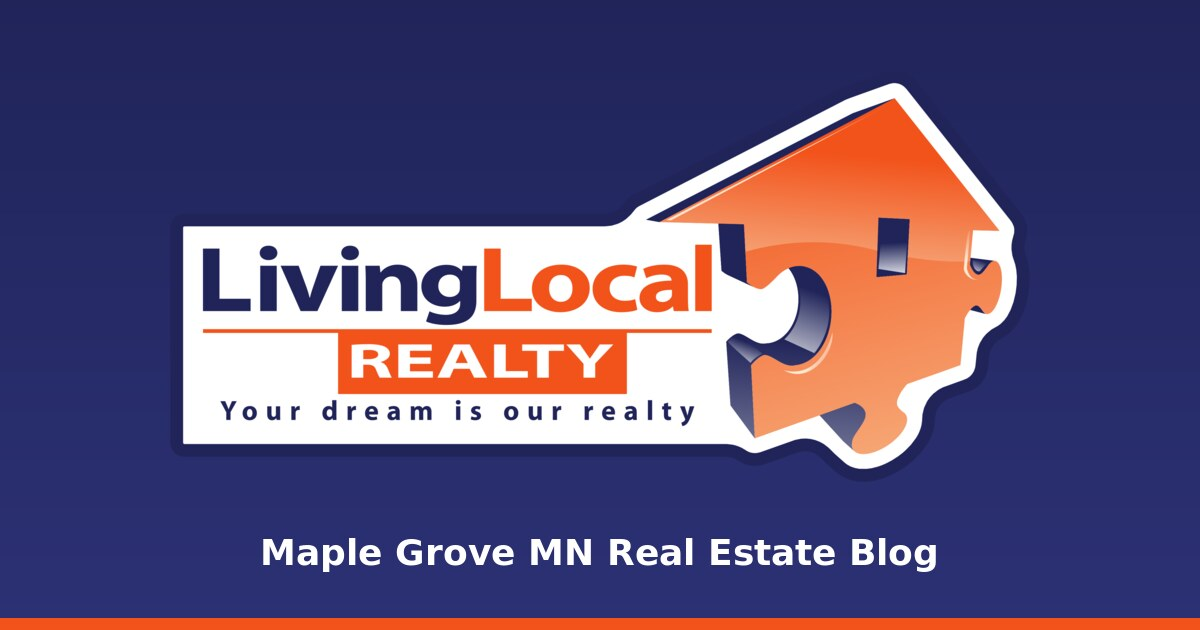
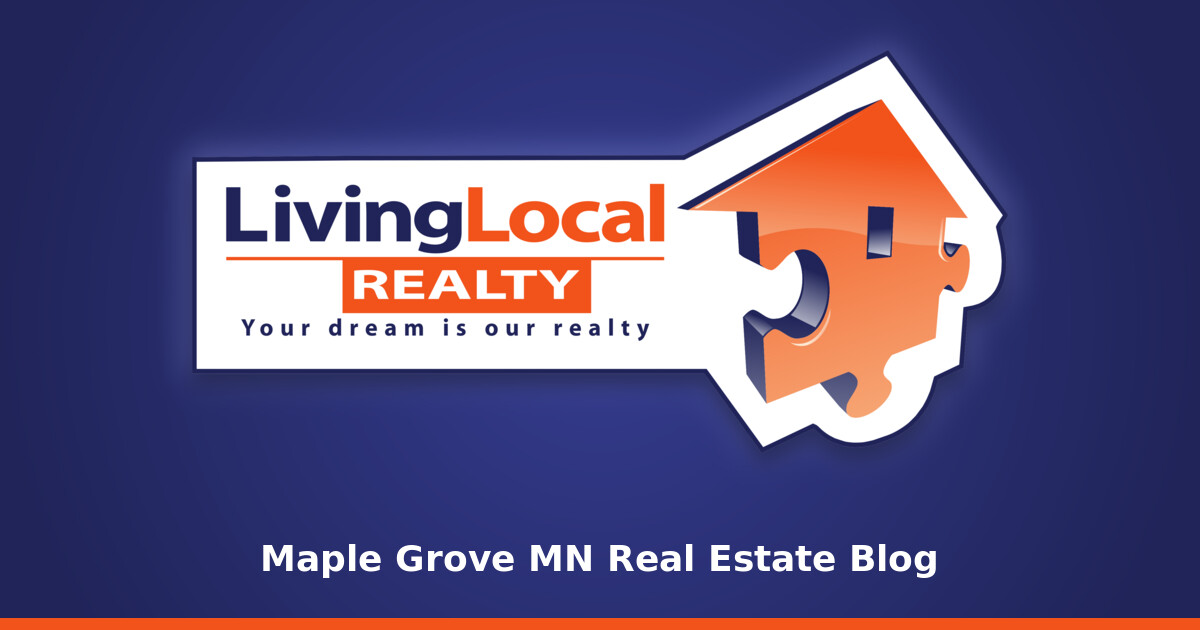
Footer + OG image: approved key badge v4 (traced from Thomas's business card)

diff --git a/404.html b/404.html
@@ -34,7 +34,7 @@
   <div class="wrap">
     <div class="cols">
       <div>
-        <picture><source srcset="/blog/assets/logo-key-badge.svg" type="image/svg+xml"><img src="/blog/assets/logo-key-badge.png" alt="LivingLocal Realty" width="209" height="100" loading="lazy"></picture>
+        <picture><source srcset="/blog/assets/logo-key-badge.svg" type="image/svg+xml"><img src="/blog/assets/logo-key-badge.png" alt="LivingLocal Realty" width="202" height="100" loading="lazy"></picture>
         <strong>Thomas Moriarty</strong>, LivingLocal Realty<br>
         Maple Grove, MN. Licensed in Minnesota and Wisconsin.
       </div>

diff --git a/posts/_template.html b/posts/_template.html
@@ -138,7 +138,7 @@
   <div class="wrap">
     <div class="cols">
       <div>
-        <picture><source srcset="../assets/logo-key-badge.svg" type="image/svg+xml"><img src="../assets/logo-key-badge.png" alt="LivingLocal Realty" width="209" height="100" loading="lazy"></picture>
+        <picture><source srcset="../assets/logo-key-badge.svg" type="image/svg+xml"><img src="../assets/logo-key-badge.png" alt="LivingLocal Realty" width="202" height="100" loading="lazy"></picture>
         <strong>Thomas Moriarty</strong>, LivingLocal Realty<br>
         Maple Grove, MN. Licensed in Minnesota and Wisconsin.
       </div>

diff --git a/index.html b/index.html
@@ -122,7 +122,7 @@
   <div class="wrap">
     <div class="cols">
       <div>
-        <picture><source srcset="assets/logo-key-badge.svg" type="image/svg+xml"><img src="assets/logo-key-badge.png" alt="LivingLocal Realty" width="209" height="100" loading="lazy"></picture>
+        <picture><source srcset="assets/logo-key-badge.svg" type="image/svg+xml"><img src="assets/logo-key-badge.png" alt="LivingLocal Realty" width="202" height="100" loading="lazy"></picture>
         <strong>Thomas Moriarty</strong>, LivingLocal Realty<br>
         Maple Grove, MN. Licensed in Minnesota and Wisconsin.
       </div>
